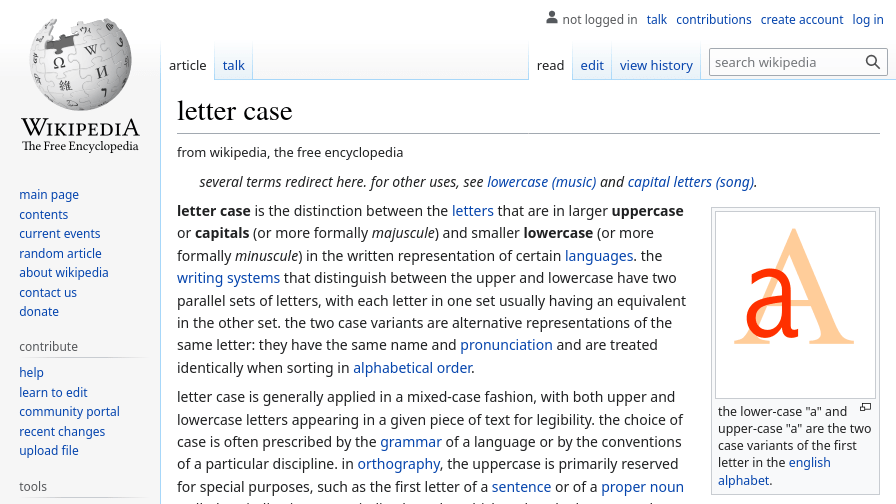
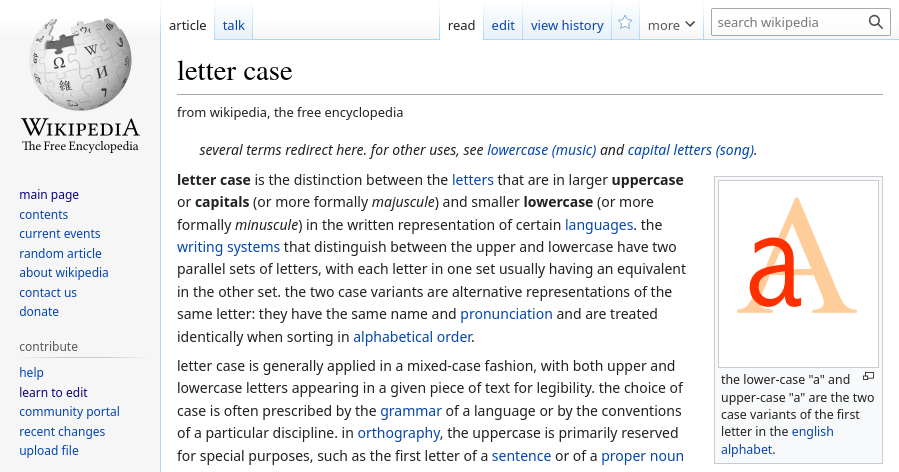
add dark theme raevision preview

diff --git a/README.md b/README.md
@@ -18,7 +18,10 @@ Native dark mode will be everywhere. Even Example Domain.
 
 hate uppercase letters? do they fill you with spite? hatred? would you rather everything be small, [nano](https://twitter.com/nano_pone) sized letters? now nobody has a choice! all you will ever see is lowercase letters. unless they're in an image. or not in your browser. or some weird css specificity edge case overrides this.
 
-![raevision preview image](raevision/preview.png)
+<picture>
+  <source media="(prefers-color-scheme: dark)" srcset="raevision/preview-dark.png">
+  <img alt="raevision preview image" src="raevision/preview.png">
+</picture>
 
 ### [Transparent Standalone Images](https://raw.githubusercontent.com/Commenter25/userstyles/main/tpimgs/tpimgs.user.css)  
 
